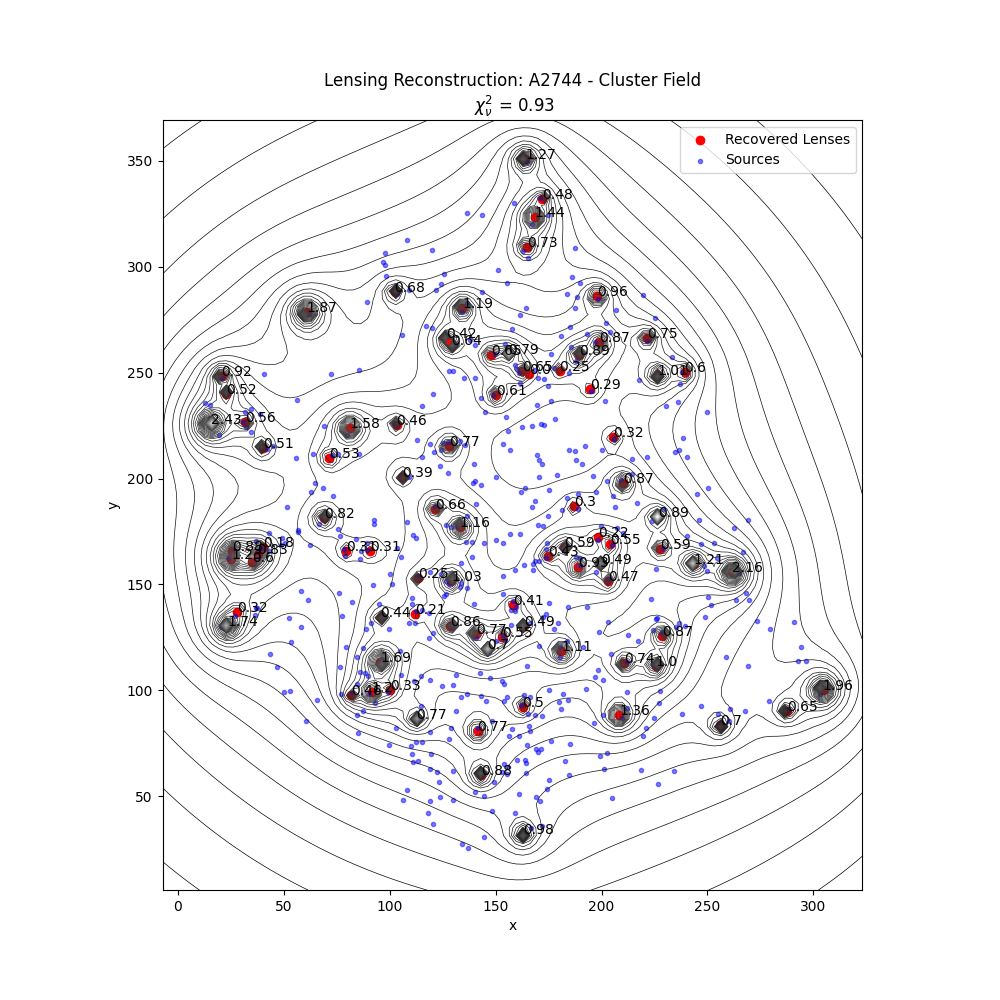
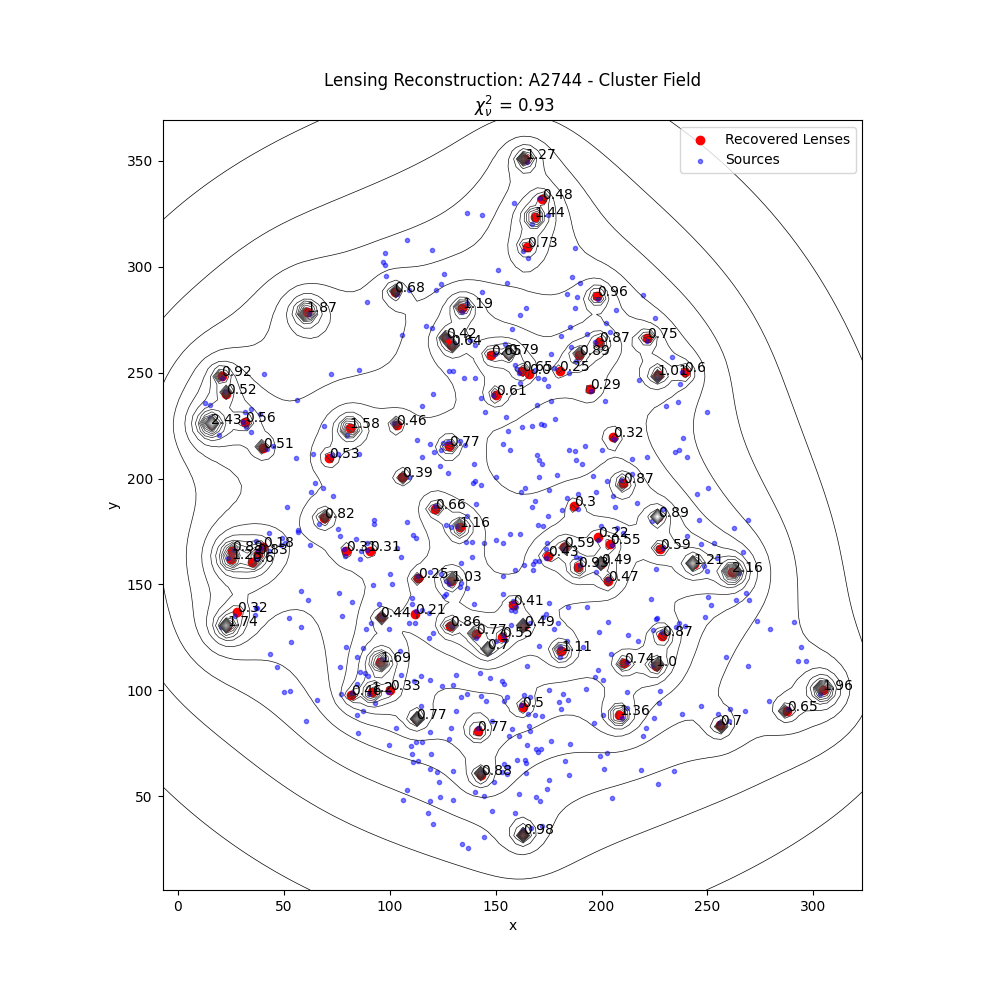
Change to noise cuts

Changed region(s): [[0.155, 0.124, 0.868, 0.868], [0.775, 0.217, 0.806, 0.248], [0.744, 0.186, 0.775, 0.217]]

diff --git a/test_pipeline.py b/test_pipeline.py
@@ -300,8 +300,8 @@ if __name__ == '__main__':
                 kappa[j, i] += lenses.te[k] / (2 * r)
 
     #plt.figure(figsize=(10, 10))
-    levels = np.linspace(np.min(kappa), np.max(kappa), 100)
-    ax.contour(X, Y, kappa, levels=levels, cmap='gray', linewidths=0.5, linestyles='solid', label='Convergence Map')
+    levels = np.linspace(np.min(kappa), np.max(kappa), 50)
+    ax.contour(X, Y, kappa, levels=levels, cmap='gray', linewidths=0.5, linestyles='solid')
     #plt.scatter(lenses.x - centroid[0], lenses.y - centroid[1], color='red', label='Recovered Lenses')
     #plt.xlim(-xmax, xmax)
     #plt.ylim(-xmax, xmax)
